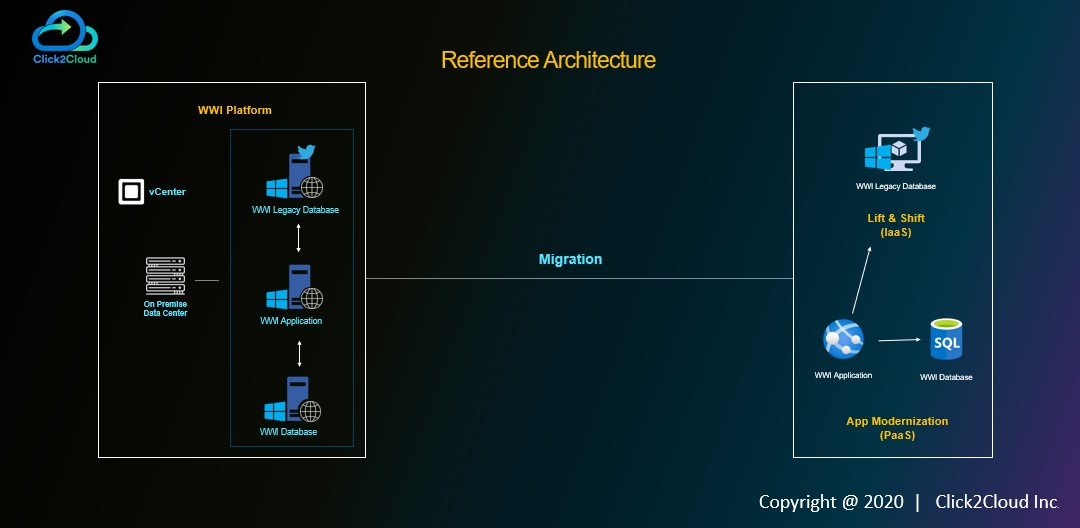
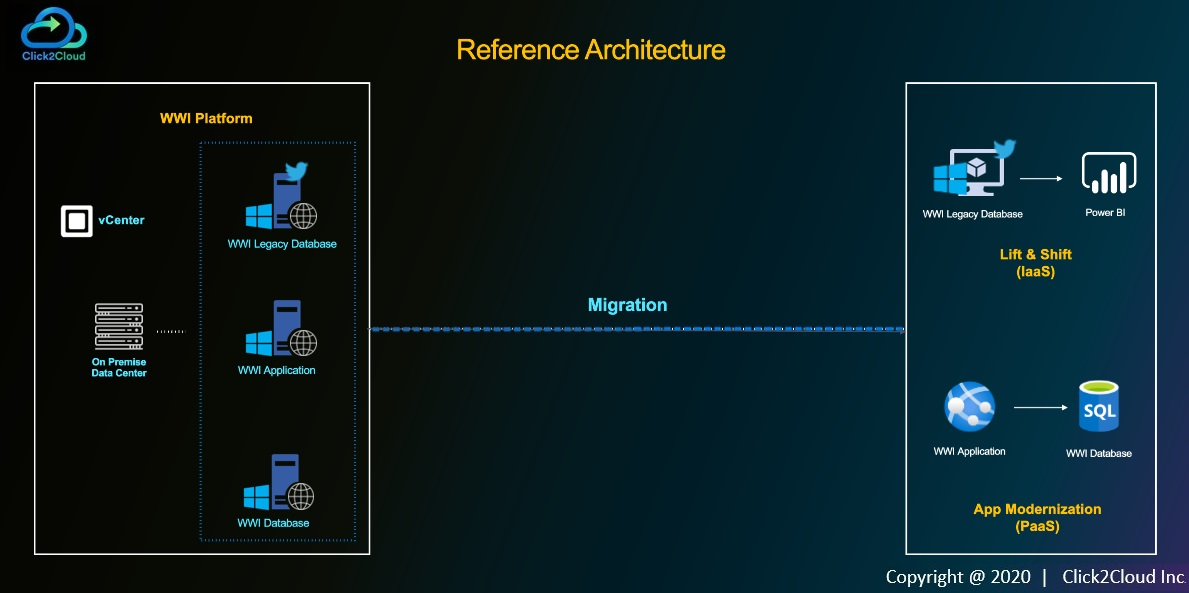
updated scenario and demo steps image in main readme.md

diff --git a/README.md b/README.md
@@ -16,6 +16,11 @@
   <img src="./images/migration-scenarios.jpg">
 </kbd></p>
 
+## Demo Steps
+<kbd>
+  <img src="./images/demo-steps.jpg">
+</kbd></p>
+
 ### **1. Lift & Shift**
 **Lift and shift**, also known as **rehosting**, is the process of migrating an exact copy of an application or workload (and its data store and OS) from IT one environment to another-usually from on-premises to public or private cloud.
 
